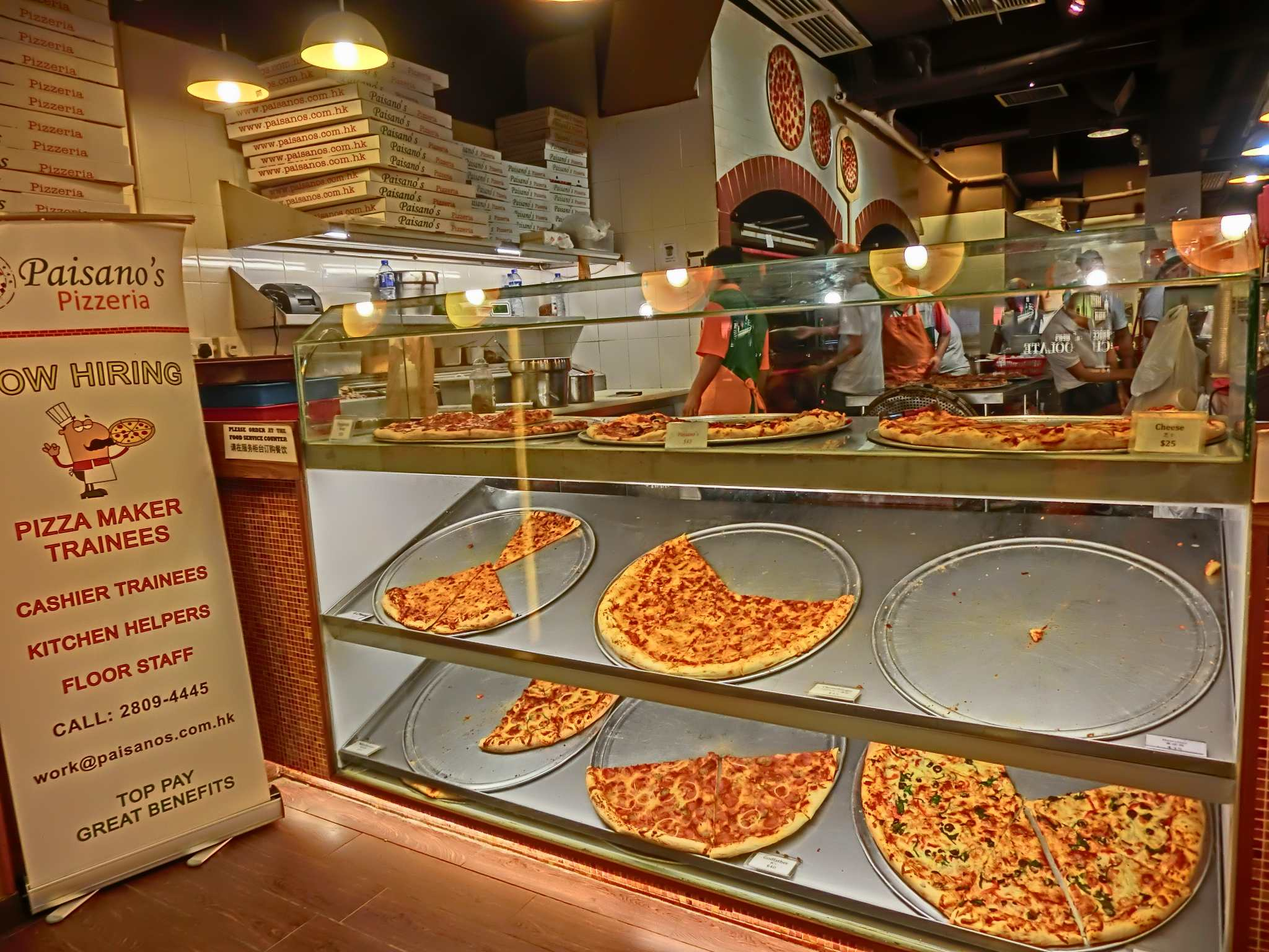
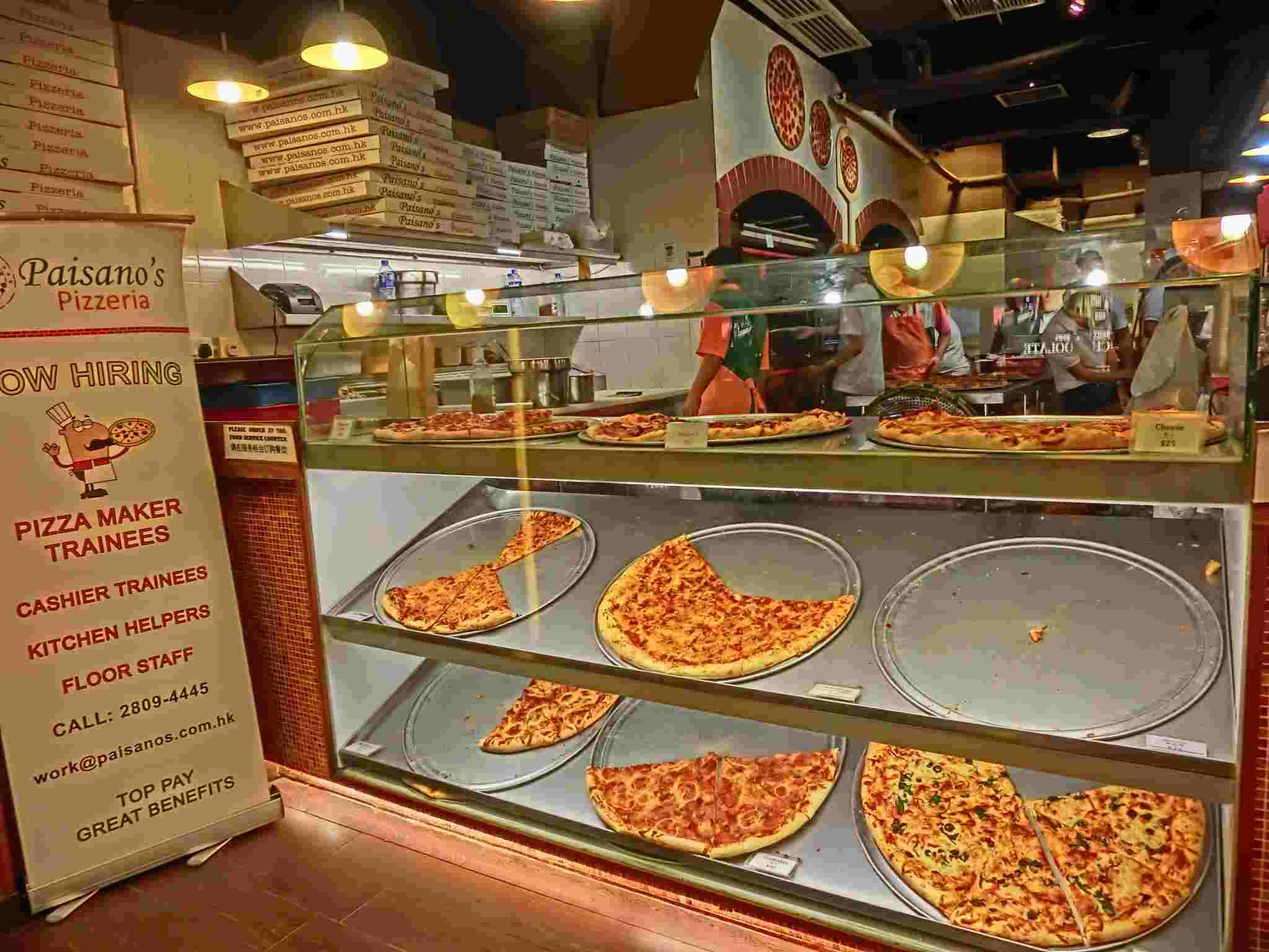
reduce the file size of pizzeria.jpg

diff --git a/README.md b/README.md
@@ -71,3 +71,10 @@ Feeling uninspired by the portfolio? Here's a list of cool portfolios I found af
 * <a href="http://nicoledominguez.com/portfolio/">http://nicoledominguez.com/portfolio/</a>
 * <a href="http://www.roxannecook.com/">http://www.roxannecook.com/</a>
 * <a href="http://www.84colors.com/portfolio.html">http://www.84colors.com/portfolio.html</a>
+
+
+
+#Development
+
+- The first thing I did was to execute the PageSpeed test of google to identify the initial issues of the page.
+- based on the results I started optimizing the image file size of pizzeria.jpg, passing from 2.3 MB to 363 KB.
